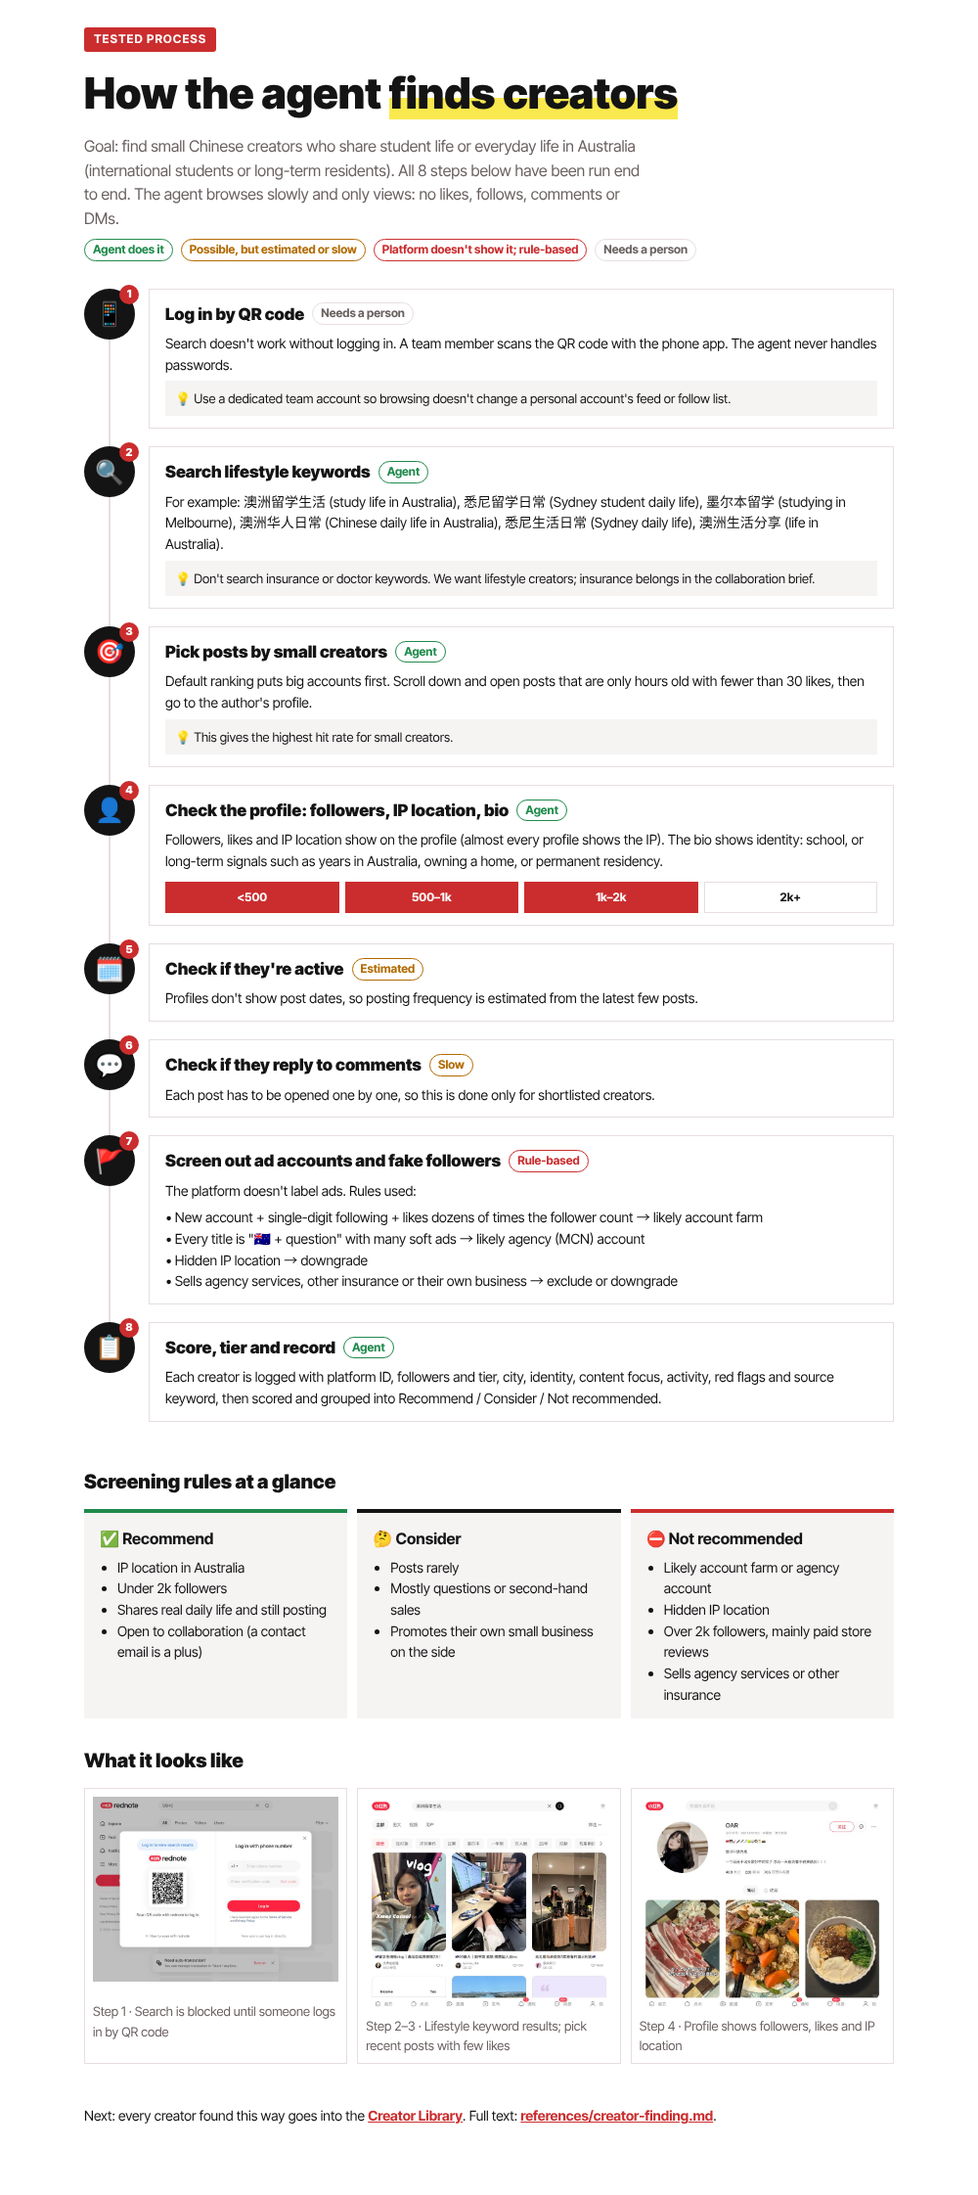
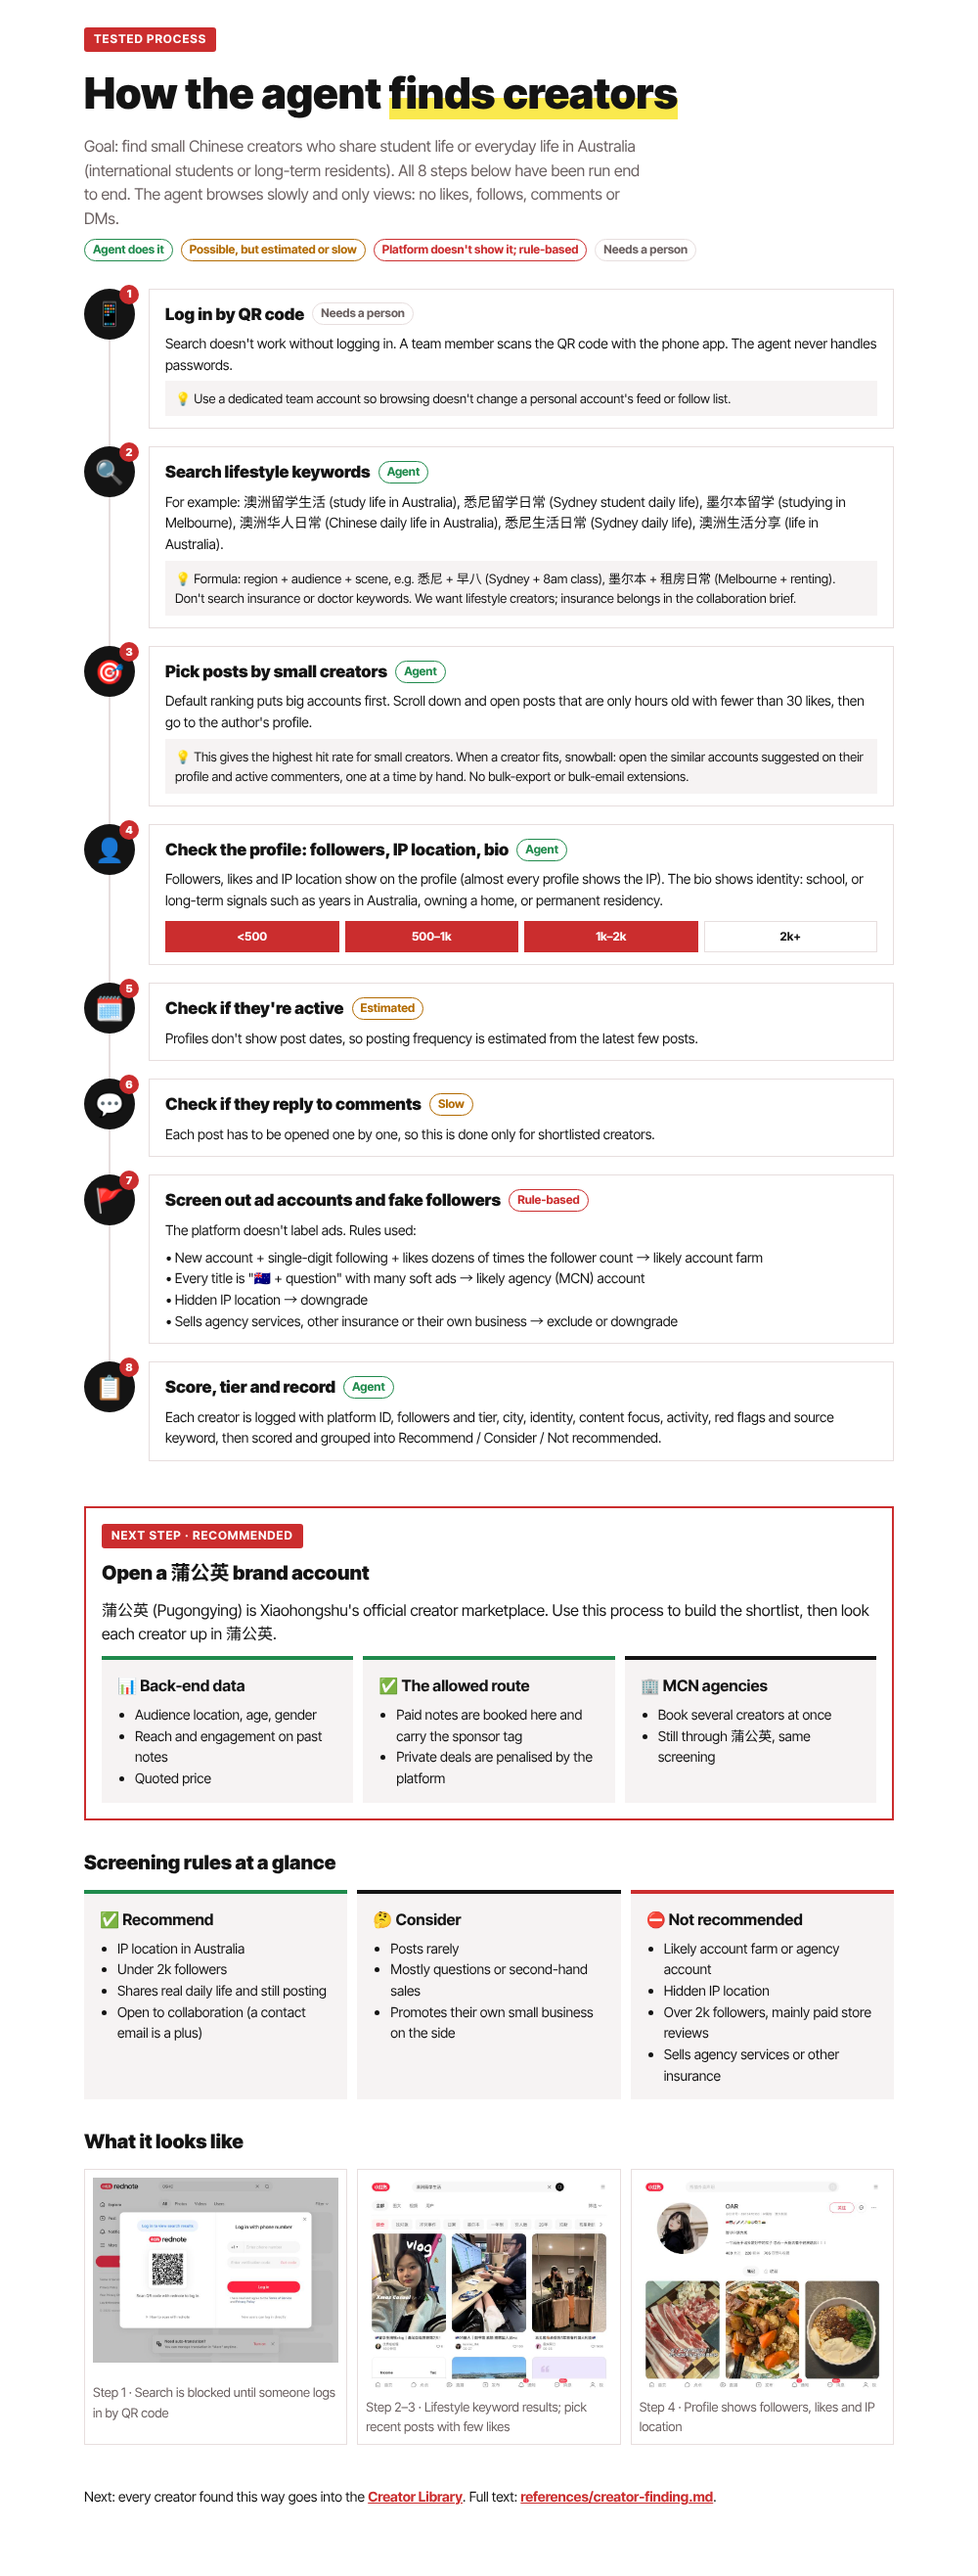
Creator finding: snowball step, keyword formula, recommend a 蒲公英 brand account
- references/creator-finding.md and process.html: snowball from a good creator by hand
  (no bulk-export/bulk-email extensions), region + audience + scene keywords, and a
  Next step section recommending 蒲公英 for back-end data and paid bookings (MCN too)
- cn-kol-manager ends the 'how do we find creators' answer with the 蒲公英 recommendation
- kol-playbook: lifestyle keywords instead of insurance/doctor words

Claude-Session: https://claude.ai/code/session_01DcvFVufSeSVvVkRLPy6cq9

Changed region(s): [[0.062, 0.0, 0.899, 0.9987], [0.837, 0.1248, 0.899, 0.156], [0.775, 0.1248, 0.806, 0.156]]

diff --git a/assets/creator-finding/process.html b/assets/creator-finding/process.html
@@ -5,6 +5,7 @@
 <style>
 *{box-sizing:border-box}body{margin:0}
 .shots{display:grid;grid-template-columns:repeat(auto-fit,minmax(220px,1fr));gap:10px}.shots figure{margin:0;border:1px solid var(--line);padding:8px;display:grid;gap:6px}.shots img{width:100%;height:auto;display:block}.shots figcaption{font-size:13px;color:var(--muted)}
+.next{border:2px solid var(--red);padding:16px;display:grid;gap:10px}.next h2{margin:0}.next p{margin:0}
 .links{font-size:14px}.links a{color:var(--red);font-weight:700}
 
 /* Layout: one column; numbered vertical process (real sequence), each step = icon + action + status pill + tip; summary of who passes at the end. Medibank red/white/black + yellow highlight */
@@ -70,13 +71,13 @@ h2{font-size:20px;font-weight:900;margin:0 0 12px}
   <li class="step"><div class="num">🔍<small>2</small></div><div class="body">
     <div class="hd"><b>Search lifestyle keywords</b><span class="pill p-ok">Agent</span></div>
     <p>For example: 澳洲留学生活 (study life in Australia), 悉尼留学日常 (Sydney student daily life), 墨尔本留学 (studying in Melbourne), 澳洲华人日常 (Chinese daily life in Australia), 悉尼生活日常 (Sydney daily life), 澳洲生活分享 (life in Australia).</p>
-    <div class="tip">Don't search insurance or doctor keywords. We want lifestyle creators; insurance belongs in the collaboration brief.</div>
+    <div class="tip">Formula: region + audience + scene, e.g. 悉尼 + 早八 (Sydney + 8am class), 墨尔本 + 租房日常 (Melbourne + renting). Don't search insurance or doctor keywords. We want lifestyle creators; insurance belongs in the collaboration brief.</div>
   </div></li>
 
   <li class="step"><div class="num">🎯<small>3</small></div><div class="body">
     <div class="hd"><b>Pick posts by small creators</b><span class="pill p-ok">Agent</span></div>
     <p>Default ranking puts big accounts first. Scroll down and open posts that are only hours old with fewer than 30 likes, then go to the author's profile.</p>
-    <div class="tip">This gives the highest hit rate for small creators.</div>
+    <div class="tip">This gives the highest hit rate for small creators. When a creator fits, snowball: open the similar accounts suggested on their profile and active commenters, one at a time by hand. No bulk-export or bulk-email extensions.</div>
   </div></li>
 
   <li class="step"><div class="num">👤<small>4</small></div><div class="body">
@@ -106,6 +107,17 @@ h2{font-size:20px;font-weight:900;margin:0 0 12px}
     <p>Each creator is logged with platform ID, followers and tier, city, identity, content focus, activity, red flags and source keyword, then scored and grouped into Recommend / Consider / Not recommended.</p>
   </div></li>
 </ol>
+
+<section class="next">
+  <span class="tag">NEXT STEP · RECOMMENDED</span>
+  <h2>Open a 蒲公英 brand account</h2>
+  <p>蒲公英 (Pugongying) is Xiaohongshu's official creator marketplace. Use this process to build the shortlist, then look each creator up in 蒲公英.</p>
+  <div class="out">
+    <div class="box go"><b>📊 Back-end data</b><ul><li>Audience location, age, gender</li><li>Reach and engagement on past notes</li><li>Quoted price</li></ul></div>
+    <div class="box go"><b>✅ The allowed route</b><ul><li>Paid notes are booked here and carry the sponsor tag</li><li>Private deals are penalised by the platform</li></ul></div>
+    <div class="box"><b>🏢 MCN agencies</b><ul><li>Book several creators at once</li><li>Still through 蒲公英, same screening</li></ul></div>
+  </div>
+</section>
 
 <section>
   <h2>Screening rules at a glance</h2>

diff --git a/references/creator-finding.md b/references/creator-finding.md
@@ -11,10 +11,17 @@
 
 ## Step 2: Search by keyword
 
-- Build keywords as **region + audience + life scenario**, e.g. "<city> + study-abroad daily life", "<country> + life sharing", "<school> + daily", "<country> + Chinese daily life".
+- Build keywords as **region + audience + life scenario**, e.g. "<city> + study-abroad daily life", "<country> + life sharing", "<school> + daily", "<country> + Chinese daily life". Add a specific scene for more small creators, e.g. 悉尼 + 早八 (Sydney + 8am class), 墨尔本 + 租房日常 (Melbourne + renting life).
+- Use lifestyle words only. Do not search insurance or doctor words: we want lifestyle creators, and the insurance topic goes into the collaboration brief.
 - Keep keywords broad. Narrow ones (product names, industry terms) mostly surface institutional or agency accounts, or match unrelated meanings of the same word.
 - Each keyword shows about 20 notes on the first screen, with title, author, post time and like count.
 - The default "comprehensive" sort shows big accounts and viral posts first. **To find small creators**, open notes posted minutes to hours ago with single- or double-digit likes, then go to the author's profile.
+
+**Snowball from a good creator.** When a creator fits, look at the similar accounts the
+platform suggests on their profile and at the people active in their comments, and open the
+ones that look like small lifestyle creators. Browse by hand, one at a time. Do not use
+third-party extensions that bulk-export "similar creators" or bulk-email them: they break
+the platform's user agreement, risk the account, and send creator data to a third party.
 
 ## Step 3: Review the profile
 
@@ -49,6 +56,29 @@ Record each creator in the Creator Library with these fields:
 > Library ID | Platform | Category | Nickname | Xiaohongshu ID | User ID | Profile URL | Followers + Tier | Likes & Collects | Following | IP Location | City | Identity | Content Focus | Source Keyword | Ad / Collab Signals | Red Flags | Score | Status
 
 Take screenshots at the key steps: search results, a profile (showing followers and IP location), and comments (showing IP and author replies).
+
+## Next step: open a 蒲公英 account (recommended)
+
+This process finds and screens creators from their public profiles. Before paying anyone,
+Medibank should open a **蒲公英 (Pugongying) brand account**, Xiaohongshu's official creator
+marketplace:
+
+- **See the creator's back-end data**, not only the public profile: audience profile
+  (location, age, gender), reach and engagement on past notes, and quoted price. This is the
+  data a profile scan cannot show, and it feeds the full score in `tools/kol_score.py`.
+- **It is the only allowed route for paid collaborations.** Paid notes go through 蒲公英 and
+  carry the sponsor tag; private deals are penalised by the platform
+  (`references/platforms/xiaohongshu.md`).
+- **MCN agencies** manage groups of creators and can book several at once, but the booking
+  still goes through 蒲公英 with the tag. Check that the agency's creators pass the same
+  screening.
+- Very small creators may be below 蒲公英's entry threshold
+  (`references/kol-playbook.md` §1). Any gifted or paid post from them must still be
+  labelled as an ad.
+
+So: use this process to build the shortlist, then look up each shortlisted creator in
+蒲公英 for the back-end data and book there. [VERIFY current 蒲公英 data fields and entry
+rules with Xiaohongshu]
 
 ## Operating rules
 

diff --git a/references/kol-playbook.md b/references/kol-playbook.md
@@ -51,9 +51,11 @@ recent sponsored note for another OSHC insurer (in the last 90 days).
    Filters below use 蒲公英 terms; the other marketplaces have equivalents.
    Filter: category 教育/留学 or 生活; follower location 澳大利亚 or creator IP 澳大利亚;
    audience 18–30.
-2. Search 小红书 and 抖音 for: `澳洲留学 行前`, `OSHC`, `澳洲看病`, `悉尼 GP`, `UNSW 新生`,
-   `墨大 新生`, `澳洲 留学生 保险`, `offer 怎么看`. Note who ranks in the top results and
-   whose comments are full of real questions.
+2. Search 小红书 and 抖音 with lifestyle keywords (region + audience + scene), e.g.
+   `澳洲留学生活`, `悉尼留学日常`, `墨尔本留学`, `UNSW 日常`, `澳洲华人日常`, `悉尼 + 早八`.
+   Not insurance or doctor words: we want lifestyle creators, and the topic goes in the brief.
+   The tested method and the creators already found: `references/creator-finding.md`,
+   `creators/scouted/`.
 3. Third-party data tools (千瓜数据, 灰豚数据, 新红) for engagement history and fake-fan
    checks. [VERIFY Medibank has a licence for one of these]
 4. Export candidates to CSV (template: `examples/kol_candidates.csv`) and score them.

diff --git a/.agents/skills/cn-kol-manager/SKILL.md b/.agents/skills/cn-kol-manager/SKILL.md
@@ -29,8 +29,12 @@ Answer in this order, short and visual, in the user's language:
 3. **The recommendations.** Show the Shortlist (`python tools/creator_library.py --status
    Shortlist`): nickname, Library ID, Xiaohongshu ID, followers and tier, city, score, one line
    on why. Add "follower counts were recorded at scan time; check again before contacting".
-4. **Adding more.** The library grows: new scans add rows (step 5 below). Offer to run a new
+4. **Adding more.** The library grows: new scans add rows (task 1b). Offer to run a new
    search if the user can log in on a browser you can use.
+5. **Recommend 蒲公英.** End by recommending Medibank open a 蒲公英 brand account: it shows each
+   creator's back-end data (audience, reach, engagement, price) that a profile scan cannot,
+   and it is the only allowed route for paid collaborations (MCN agencies book through it
+   too). Details: "Next step" in `references/creator-finding.md`.
 
 Never invent creators. Name only creators in `creators/scouted/` or supplied by the user.
 

diff --git a/.claude/skills/cn-kol-manager/SKILL.md b/.claude/skills/cn-kol-manager/SKILL.md
@@ -29,8 +29,12 @@ Answer in this order, short and visual, in the user's language:
 3. **The recommendations.** Show the Shortlist (`python tools/creator_library.py --status
    Shortlist`): nickname, Library ID, Xiaohongshu ID, followers and tier, city, score, one line
    on why. Add "follower counts were recorded at scan time; check again before contacting".
-4. **Adding more.** The library grows: new scans add rows (step 5 below). Offer to run a new
+4. **Adding more.** The library grows: new scans add rows (task 1b). Offer to run a new
    search if the user can log in on a browser you can use.
+5. **Recommend 蒲公英.** End by recommending Medibank open a 蒲公英 brand account: it shows each
+   creator's back-end data (audience, reach, engagement, price) that a profile scan cannot,
+   and it is the only allowed route for paid collaborations (MCN agencies book through it
+   too). Details: "Next step" in `references/creator-finding.md`.
 
 Never invent creators. Name only creators in `creators/scouted/` or supplied by the user.
 

diff --git a/skills/cn-kol-manager/SKILL.md b/skills/cn-kol-manager/SKILL.md
@@ -29,8 +29,12 @@ Answer in this order, short and visual, in the user's language:
 3. **The recommendations.** Show the Shortlist (`python tools/creator_library.py --status
    Shortlist`): nickname, Library ID, Xiaohongshu ID, followers and tier, city, score, one line
    on why. Add "follower counts were recorded at scan time; check again before contacting".
-4. **Adding more.** The library grows: new scans add rows (step 5 below). Offer to run a new
+4. **Adding more.** The library grows: new scans add rows (task 1b). Offer to run a new
    search if the user can log in on a browser you can use.
+5. **Recommend 蒲公英.** End by recommending Medibank open a 蒲公英 brand account: it shows each
+   creator's back-end data (audience, reach, engagement, price) that a profile scan cannot,
+   and it is the only allowed route for paid collaborations (MCN agencies book through it
+   too). Details: "Next step" in `references/creator-finding.md`.
 
 Never invent creators. Name only creators in `creators/scouted/` or supplied by the user.
 
